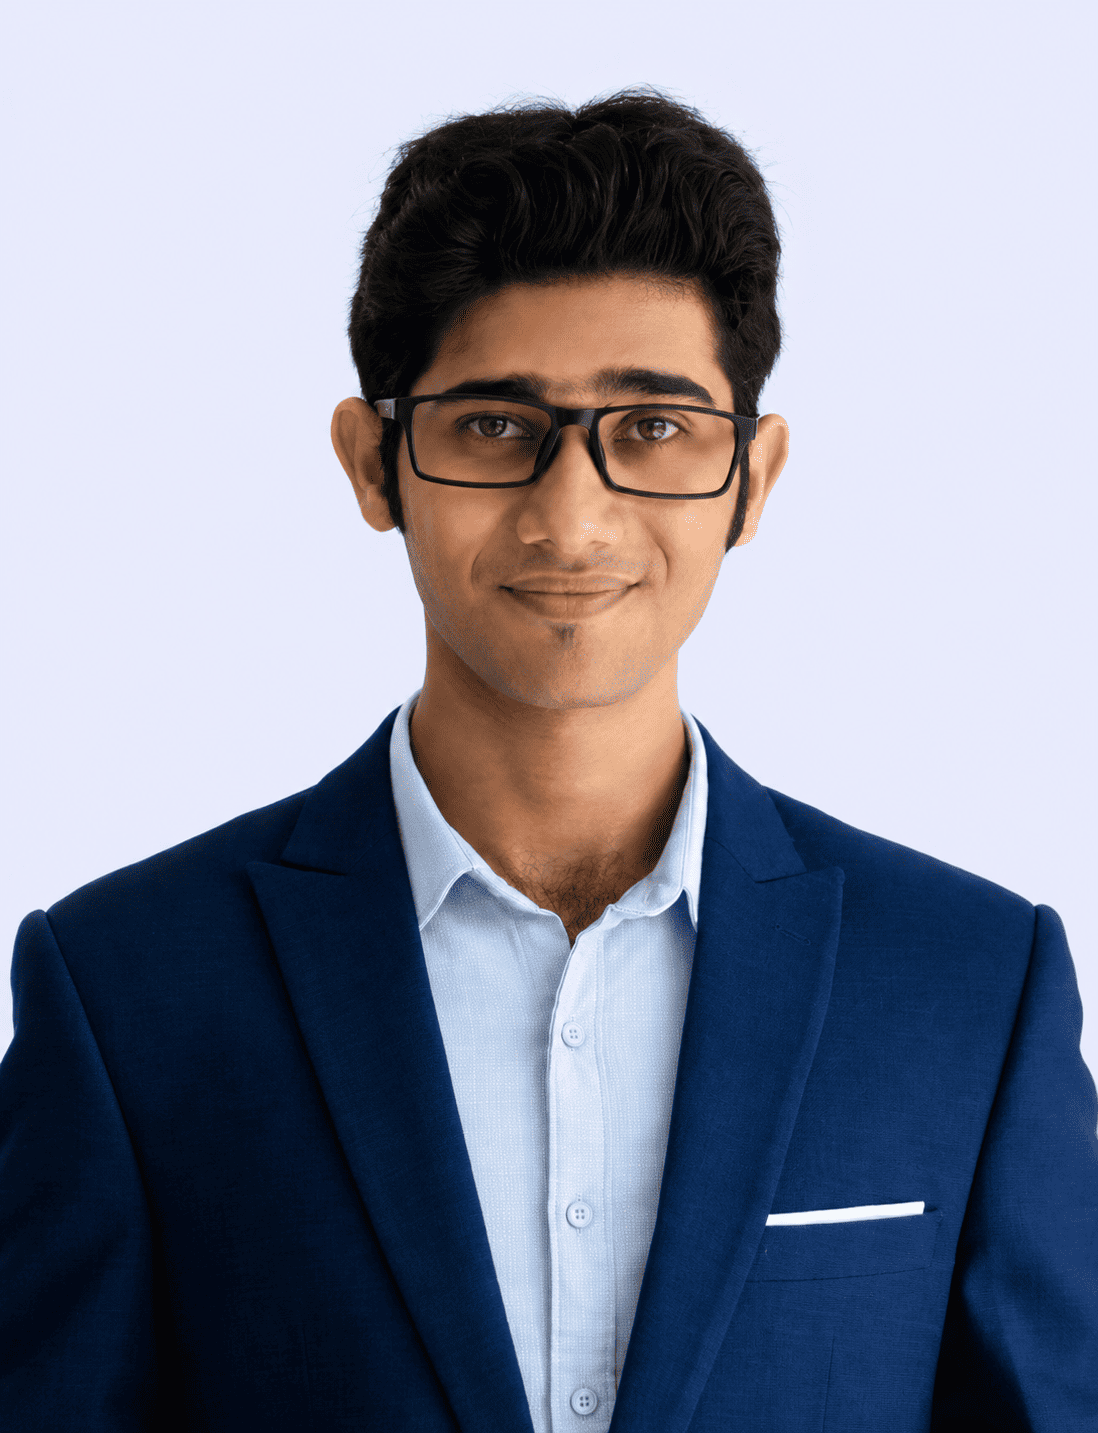
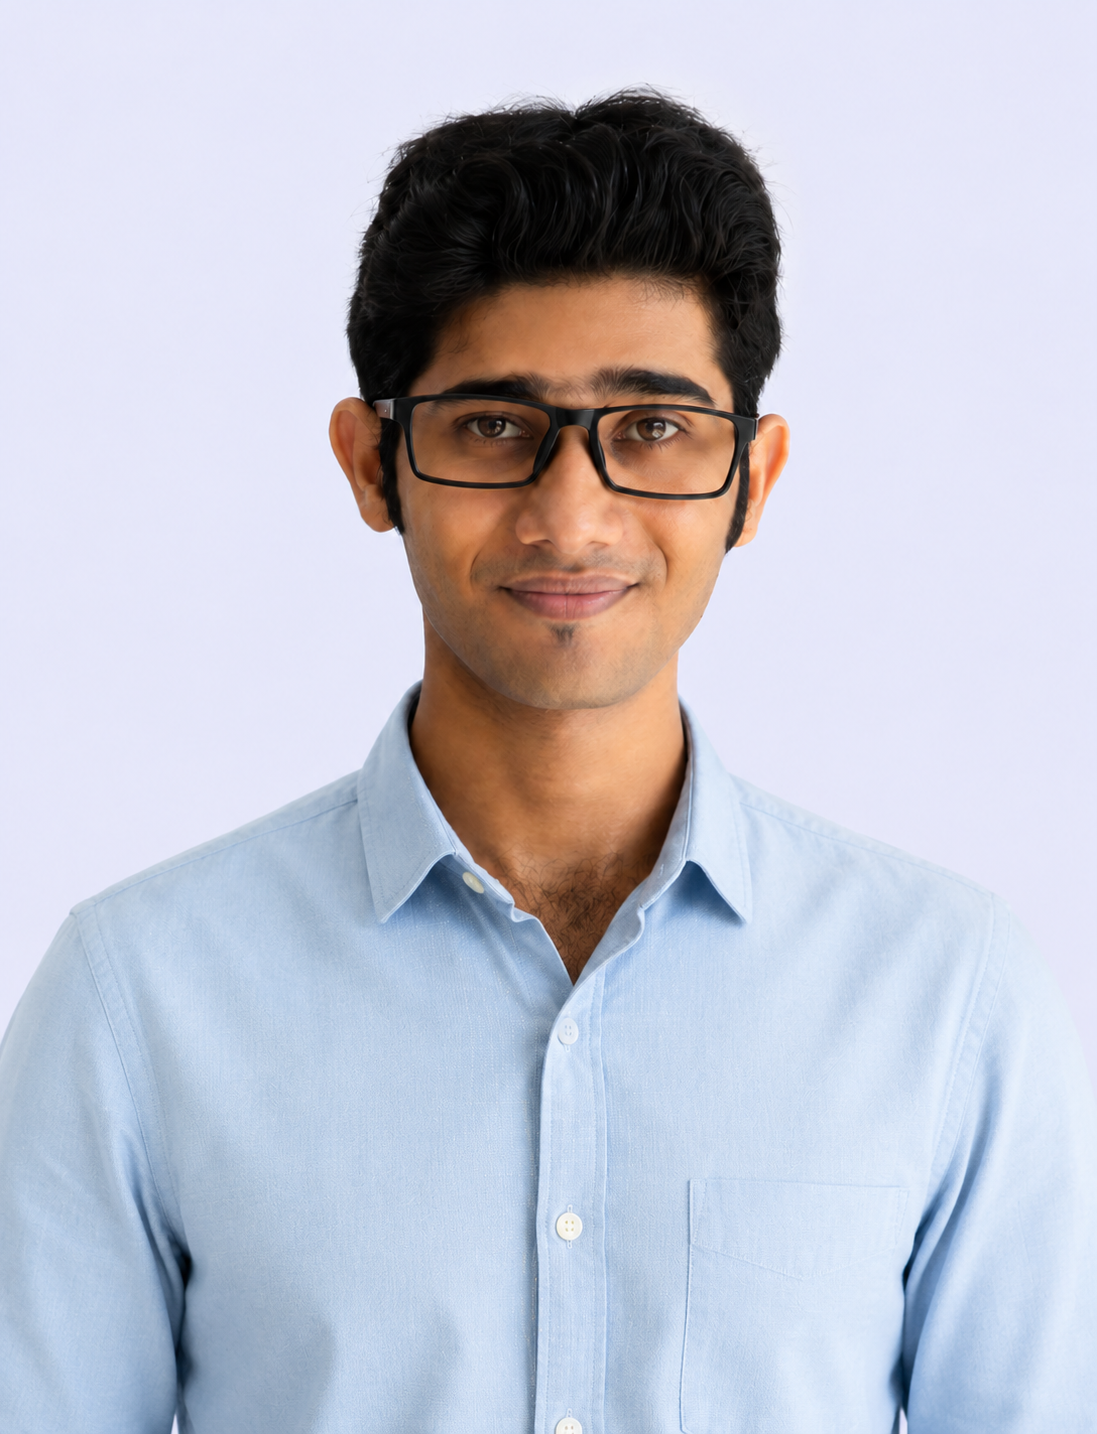
updated the photos and cahnges the course section

diff --git a/lib/course-library.ts b/lib/course-library.ts
@@ -1318,14 +1318,62 @@ export const courseLibrary: Omit<CourseItem, "id">[] = [
 ];
 
 export function getCourseTemplateOptions() {
-  return courseLibrary.map((course) => ({
-    standardKey: course.standardKey,
-    title: course.title,
-  }));
+  return [
+    { standardKey: "Class 6-8", title: "Class 6-8" },
+    { standardKey: "Class 9-10", title: "Class 9-10" },
+    { standardKey: "Class 11-12 Science", title: "Class 11-12 Science" },
+    { standardKey: "Class 11-12 Commerce", title: "Class 11-12 Commerce" },
+    { standardKey: "Class 11-12 Arts", title: "Class 11-12 Arts" },
+    { standardKey: "Graduation", title: "Graduation" },
+    { standardKey: "Post Grad", title: "Post Grad" },
+    { standardKey: "Govt Exams", title: "Govt Exams" },
+    { standardKey: "Skills", title: "Skills" },
+  ];
 }
 
 export function getCourseTemplateByKey(standardKey: string) {
-  return courseLibrary.find((course) => course.standardKey === standardKey) ?? null;
+  const directMatch = courseLibrary.find(
+    (course) => course.standardKey === standardKey,
+  );
+
+  if (directMatch) {
+    return directMatch;
+  }
+
+  if (standardKey === "Class 11-12 Science") {
+    return (
+      courseLibrary.find(
+        (course) =>
+          course.sections.includes("Class 11-12") &&
+          course.stream === "Science",
+      ) ?? null
+    );
+  }
+
+  if (standardKey === "Class 11-12 Commerce") {
+    return (
+      courseLibrary.find(
+        (course) =>
+          course.sections.includes("Class 11-12") &&
+          course.stream === "Commerce",
+      ) ?? null
+    );
+  }
+
+  if (standardKey === "Class 11-12 Arts") {
+    return (
+      courseLibrary.find(
+        (course) =>
+          course.sections.includes("Class 11-12") &&
+          course.stream === "Arts",
+      ) ?? null
+    );
+  }
+
+  return (
+    courseLibrary.find((course) => course.sections.includes(standardKey)) ??
+    null
+  );
 }
 
 export function getCourseTemplateOrder(standardKey?: string) {
@@ -1333,8 +1381,19 @@ export function getCourseTemplateOrder(standardKey?: string) {
     return Number.MAX_SAFE_INTEGER;
   }
 
-  const index = courseLibrary.findIndex((course) => course.standardKey === standardKey);
-  return index === -1 ? Number.MAX_SAFE_INTEGER : index;
+  const directIndex = courseLibrary.findIndex(
+    (course) => course.standardKey === standardKey,
+  );
+
+  if (directIndex !== -1) {
+    return directIndex;
+  }
+
+  const sectionIndex = getCourseTemplateOptions().findIndex(
+    (option) => option.standardKey === standardKey,
+  );
+
+  return sectionIndex === -1 ? Number.MAX_SAFE_INTEGER : sectionIndex;
 }
 
 export function inferCourseTemplateKey(input?: string) {
@@ -1343,10 +1402,26 @@ export function inferCourseTemplateKey(input?: string) {
   }
 
   const normalized = input.trim().toLowerCase();
-  
-  // Create a mapping from title to standardKey
+
+  const sectionMap: Record<string, string> = {
+    "class 6-8": "Class 6-8",
+    "class 9-10": "Class 9-10",
+    "class 11-12 science": "Class 11-12 Science",
+    "class 11-12 commerce": "Class 11-12 Commerce",
+    "class 11-12 arts": "Class 11-12 Arts",
+    graduation: "Graduation",
+    "post grad": "Post Grad",
+    "govt exams": "Govt Exams",
+    skills: "Skills",
+  };
+
+  if (sectionMap[normalized]) {
+    return sectionMap[normalized];
+  }
+
   const titleMap: Record<string, string> = {};
-  courseLibrary.forEach(course => {
+
+  courseLibrary.forEach((course) => {
     titleMap[course.title.toLowerCase()] = course.standardKey;
   });
 

diff --git a/components/course-catalog-client.tsx b/components/course-catalog-client.tsx
@@ -5,19 +5,101 @@ import { useEffect, useState, useMemo } from "react";
 import { CourseCatalog } from "@/components/course-catalog";
 import type { CourseItem } from "@/lib/types";
 
-const COURSE_CACHE_KEY = "smart-tutor-course-cache-v4";
+const COURSE_CACHE_KEY = "smart-tutor-course-cache-v6";
 const CLASS_6_8_REGULAR_TITLE = "Class 6th-8th Regular Academic (State/CBSE)";
 
 const TABS = [
   "Class 6-8",
   "Class 9-10",
-  "Class 11-12",
+  "Class 11-12 Science",
+  "Class 11-12 Commerce",
+  "Class 11-12 Arts",
   "Graduation",
   "Post Grad",
   "Govt Exams",
-  "Skills"
+  "Skills",
 ];
 
+function getCourseStream(course: CourseItem) {
+  const text = [
+    course.stream,
+    course.title,
+    course.summary,
+    course.description,
+    course.audienceLabel,
+    ...(course.subjectsCovered ?? []),
+    ...(course.branchesIncluded ?? []),
+    ...(course.courseNamesIncluded ?? []),
+  ]
+    .filter(Boolean)
+    .join(" ")
+    .toLowerCase();
+
+  if (
+    text.includes("science") ||
+    text.includes("physics") ||
+    text.includes("chemistry") ||
+    text.includes("biology") ||
+    text.includes("mathematics") ||
+    text.includes("jee") ||
+    text.includes("neet") ||
+    text.includes("engineering") ||
+    text.includes("medical") ||
+    text.includes("software") ||
+    text.includes("it ")
+  ) {
+    return "Science";
+  }
+
+  if (
+    text.includes("commerce") ||
+    text.includes("account") ||
+    text.includes("accounting") ||
+    text.includes("business") ||
+    text.includes("economics") ||
+    text.includes("ca") ||
+    text.includes("cs") ||
+    text.includes("cma") ||
+    text.includes("mba") ||
+    text.includes("management")
+  ) {
+    return "Commerce";
+  }
+
+  if (
+    text.includes("arts") ||
+    text.includes("humanities") ||
+    text.includes("history") ||
+    text.includes("political") ||
+    text.includes("geography") ||
+    text.includes("sociology") ||
+    text.includes("psychology") ||
+    text.includes("law") ||
+    text.includes("design")
+  ) {
+    return "Arts";
+  }
+
+  return course.stream;
+}
+
+function matchesCourseTab(course: CourseItem, activeTab: string) {
+  const hasClass1112 = course.sections?.includes("Class 11-12");
+
+  if (activeTab === "Class 11-12 Science") {
+    return hasClass1112 && getCourseStream(course) === "Science";
+  }
+
+  if (activeTab === "Class 11-12 Commerce") {
+    return hasClass1112 && getCourseStream(course) === "Commerce";
+  }
+
+  if (activeTab === "Class 11-12 Arts") {
+    return hasClass1112 && getCourseStream(course) === "Arts";
+  }
+
+  return course.sections?.includes(activeTab);
+}
 type CourseCatalogClientProps = {
   initialCourses: CourseItem[];
 };
@@ -93,7 +175,7 @@ export function CourseCatalogClient({ initialCourses }: CourseCatalogClientProps
       if (course.title === CLASS_6_8_REGULAR_TITLE) {
         return activeTab === "Class 6-8";
       }
-      return course.sections && course.sections.includes(activeTab);
+      return matchesCourseTab(course, activeTab);
     });
   }, [courses, activeTab, searchQuery]);
 
